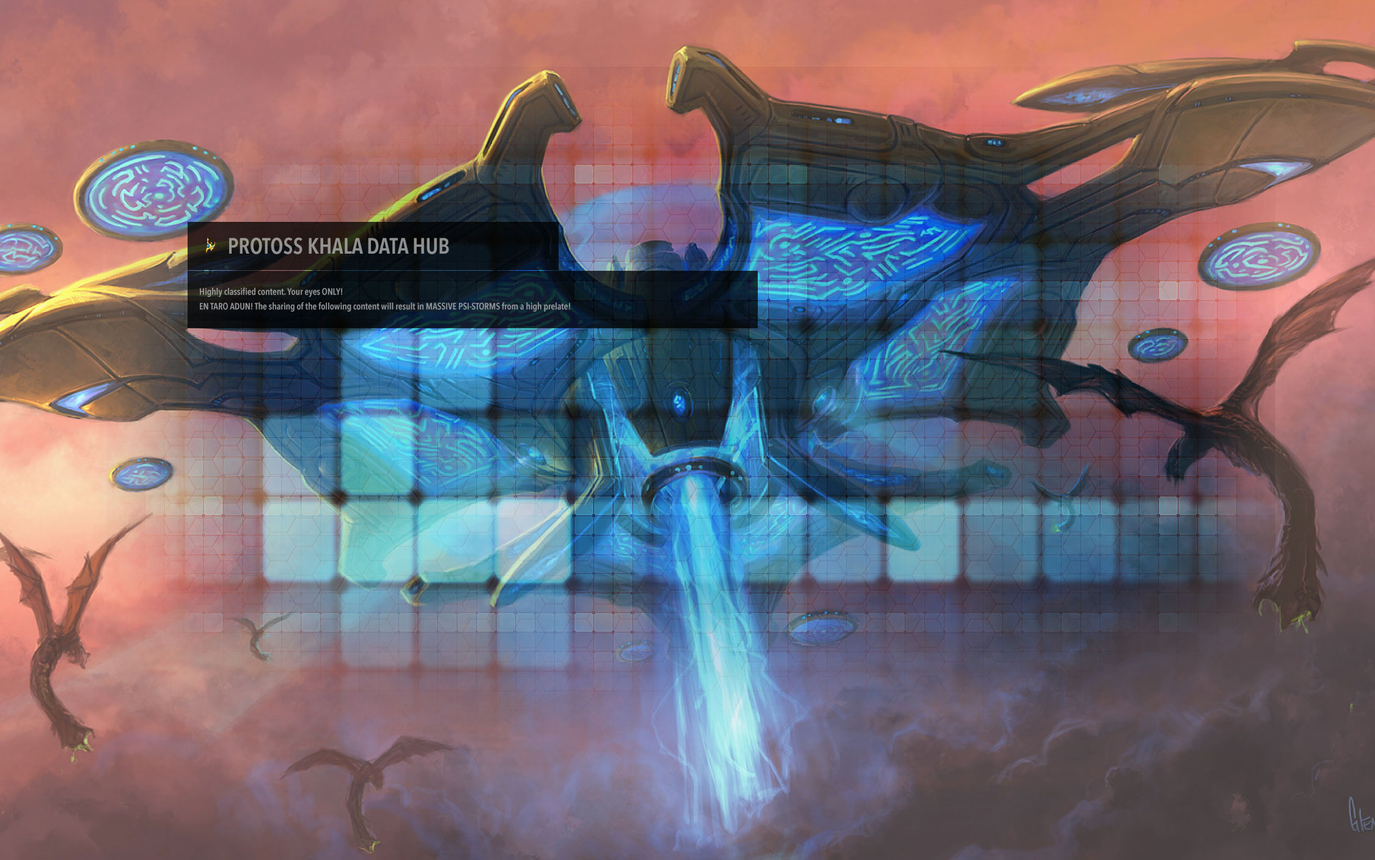
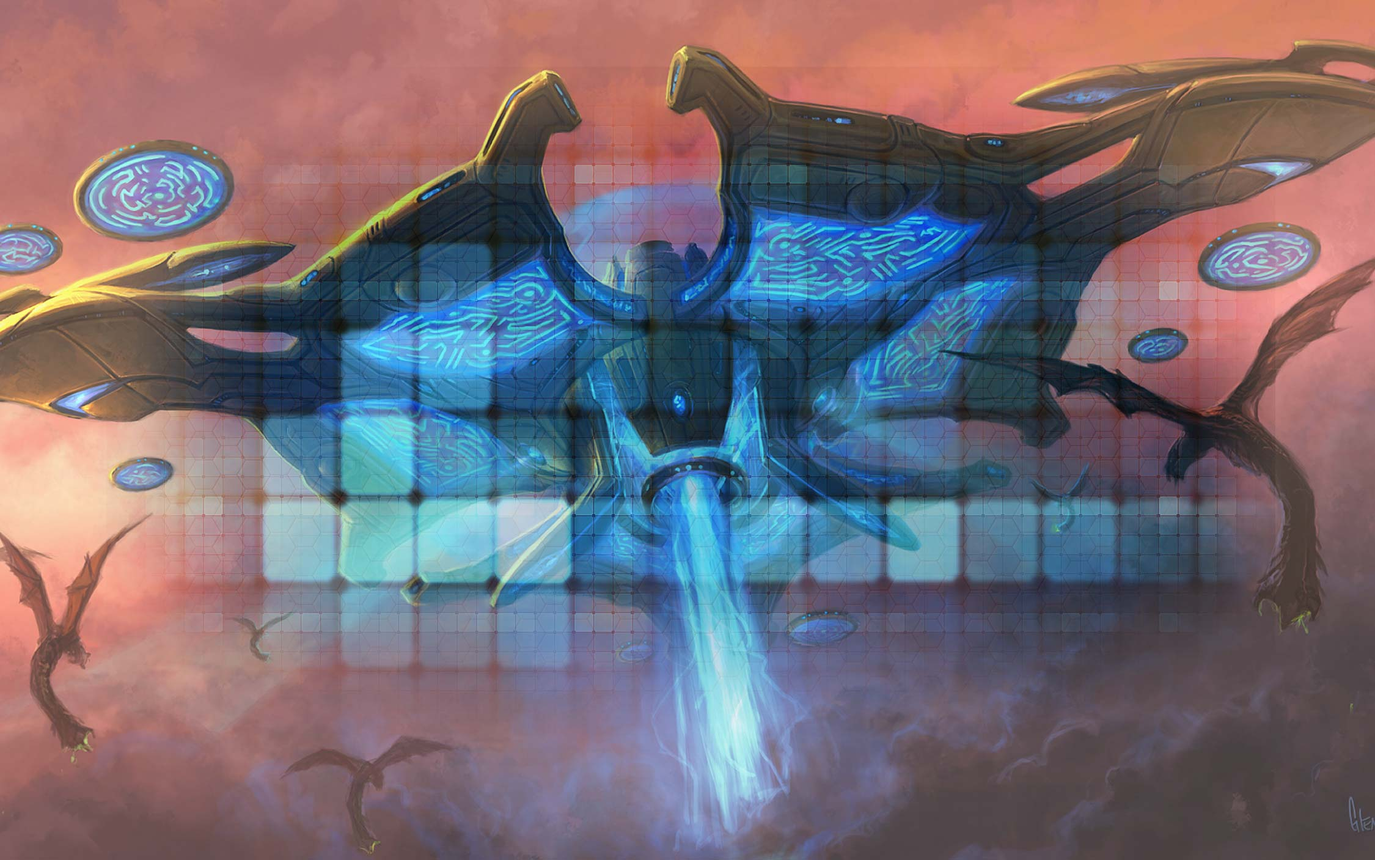
Fixed unit tests for tournament. Refactored method for user retiring from tournament. Changed profile background pictures

Changed region(s): [[0.1244, 0.2445, 0.56, 0.3973]]

diff --git a/app/tests/unit-tests-tournament.js b/app/tests/unit-tests-tournament.js
@@ -4,10 +4,21 @@
 var dbUri = 'mongodb://cristidrincu:crusader2@ds033400.mongolab.com:33400/tournament-unit-tests',
 		should = require('chai').should(),
 		mongoose = require('mongoose'),
+		User = require('../models/user.js'),
 		Tournament = require('../models/tournament.js'),
 		clearDB = require('mocha-mongoose')(dbUri),
 		moment = require('moment')
 		;
+
+var userGabi = new User({
+	'local.nickname': 'gabi',
+	'local.email': 'gabi@e-spres-oh.com',
+	'local.race': 'Terran',
+	'local.league' : 'Diamond',
+	'local.battlenetid':  '7891',
+	'local.role': 'admin',
+	'local.website' : 'http://www.starcraft2-vidcasts.ro'
+});
 
 var tournamentTest = new Tournament({
 	tournamentName: 'Turneu de test 1',
@@ -15,7 +26,7 @@ var tournamentTest = new Tournament({
 	edition: 2,
 	description: 'Lorem ipsum dolor sit amet, consectetur adipiscing elit. Sed efficitur mollis eros, ac facilisis quam. Curabitur iaculis neque quis elit pellentesque, non mollis diam finibus. Class aptent taciti sociosqu ad litora torquent per conubia nostra, per inceptos himenaeos.',
 	openForLeagues: {
-		"leagues": ['Bronze', 'Silver', 'Gold', 'Platinum', 'Diamond', 'Master', 'Grand Master']
+		leagues: ['Bronze', 'Silver', 'Gold', 'Platinum', 'Diamond', 'Master', 'Grand Master']
 	},
 	startDate: null,
 	endDate: null,
@@ -23,7 +34,9 @@ var tournamentTest = new Tournament({
 	prize: false,
 	sponsors: '',
 	ingameChatChannel: 'sc2vid',
-	twitchStreamChannel: 'warbringer81'
+	twitchStreamChannel: 'warbringer81',
+	players: [{
+		type: mongoose.Schema.Types.ObjectId, ref: "User" }]
 });
 
 describe('A tournament', function(){
@@ -35,28 +48,23 @@ describe('A tournament', function(){
 		mongoose.connect(dbUri, done);
 	});
 
+	it('can be saved', function(done){
+		new Tournament({ tournamentName: 'Turneu de test 1', nrOfPlayers: 8, edition: 2, openForLeagues: {leagues: ['Bronze', 'Silver']} }).save(done());
+	});
+
 	it('can have its basic information updated', function(done){
-		tournamentTest.tournamentName = 'Turneu de test modificat la titlu';
-		tournamentTest.nrOfPlayers = '20';
-		tournamentTest.edition = '10';
-		tournamentTest.description = 'Esti pregatit? ...speram ca da, pentru ca va trebui sa iti reprezinti rasa la cel mai inalt nivel. Acest concurs nu este unul clasic - este o lupta pe viata si pe moarte intre cele 3 rase din Starcraft2. Daca joci Terran, atunci intelegi ce inseamna supravietuirea in fata Swarm-ului. Zerg? Nu ai altceva de facut decat sa cresti economic - apoi... GO KILL. Iar daca joci Protoss, vei avea ocazia sa OBSERVI batalia - dupa care, va trebui sa iti murdaresti PSI BLADE-urile, fie pe terran, fie pe zerg!';
-
-
-		tournamentTest.save(function(err, newTournament){
+		new Tournament({ tournamentName: 'Turneu de test modificat la titlu', nrOfPlayers: '20', edition: '10' }).save(function(err, newTournament){
 			if(err) return done(err);
 
 			newTournament.tournamentName.should.equal('Turneu de test modificat la titlu');
 			newTournament.nrOfPlayers.should.equal('20');
 			newTournament.edition.should.equal('10');
-			newTournament.description.should.equal('Esti pregatit? ...speram ca da, pentru ca va trebui sa iti reprezinti rasa la cel mai inalt nivel. Acest concurs nu este unul clasic - este o lupta pe viata si pe moarte intre cele 3 rase din Starcraft2. Daca joci Terran, atunci intelegi ce inseamna supravietuirea in fata Swarm-ului. Zerg? Nu ai altceva de facut decat sa cresti economic - apoi... GO KILL. Iar daca joci Protoss, vei avea ocazia sa OBSERVI batalia - dupa care, va trebui sa iti murdaresti PSI BLADE-urile, fie pe terran, fie pe zerg!');
 			done();
 		});
 	});
 
 	it('can have its number of players updated', function(done){
-		tournamentTest.nrOfPlayers = '10';
-
-		tournamentTest.save(function(err, newTournament){
+		new Tournament({ nrOfPlayers: '10' }).save(function(err, newTournament){
 			if(err) return done(err);
 
 			newTournament.nrOfPlayers.should.equal('10');
@@ -65,19 +73,66 @@ describe('A tournament', function(){
 	});
 
 	it('can have its leagues updated', function(done){
-		tournamentTest.save(function(err){
+		new Tournament({tournamentName: 'Update tournament', openForLeagues: {leagues: ['Bronze', 'Silver']}}).save(function(err, model){
 			if(err) return done(err);
-			tournamentTest.update( {'openForLeagues.leagues': "Bronze" }, { $pull: { 'openForLeagues.leagues': "Bronze" }}, function(err, recordsUpdated){
+
+			Tournament.findOne({tournamentName: 'Update tournament'}, function(err, tournament){
 				if(err) return done(err);
-				recordsUpdated.should.equal(1);
+				tournament.openForLeagues.leagues.splice(0, 1); //remove Bronze from leagues - bad structure: openForLeagues.leagues['Bronze', 'Silver'] - cannot use $pull on such a structure
+				tournament.openForLeagues.leagues.length.should.equal(1);
 				done();
+			})
+		})
+	});
+
+	it("can add a user to tournament", function(done){
+		//add a user to the players array of a tournament
+		new User({'local.nickname': 'userGabi'}).save(function(err){
+			if(err) return done(err);
+
+			User.findOne({'local.nickname': 'userGabi'}, function(err, user){
+				if(err) return done(err);
+
+				new Tournament({tournamentName: 'Turneu push user', players: []}).save(function(err){
+					if(err) return done(err);
+
+					Tournament.findOneAndUpdate({tournamentName: 'Turneu push user'}, {$push: {players: user}}, function(err, tournament){
+						if(err) return done(err);
+						tournament.players.length.should.equal(1);
+						done();
+					});
+				});
 			});
 		});
 	});
 
-//		tournamentTest.save(function(err, updatedTournament){
-//			if(err) return done(err);
-//			updatedTournament.openForLeagues.leagues.length.should.equal(3);
-//			done();
-//		})
+	it("can remove a user from tournament", function(done){
+		new User({'local.nickname': 'userGabi'}).save(function(err){
+			if(err) return done(err);
+
+			User.findOne({'local.nickname': 'userGabi'}, function(err, user){
+				if(err) return done(err);
+
+				new Tournament({tournamentName: 'Turneu remove user', players: []}).save(function(err){
+					if(err) return done(err);
+
+					Tournament.findOneAndUpdate({tournamentName: 'Turneu remove user'}, {$push: {players: user}}, function(err){
+						if(err) return done(err);
+
+						Tournament.findOne({tournamentName: 'Turneu remove user'}).exec(function(err, tournament){
+							if(err) return done(err);
+							tournament.update({$pull: {players: user._id}}).exec(function(err){
+								if(err) return done(err);
+								Tournament.findOne({tournamentName: 'Turneu remove user'}, function(err, tournament){
+									tournament.players.length.should.equal(0);
+									done();
+								});
+							});
+						});
+					});
+				});
+			});
+		});
+	});
+
 });

diff --git a/app/routes/tournaments/tournaments-route.js b/app/routes/tournaments/tournaments-route.js
@@ -252,36 +252,18 @@ app.get('/user-tournaments/:userId', middleware.isLoggedIn, function(req, res){
 });
 
 app.post('/retragere-din-turneu/:_userId/:_tournamentId', middleware.isLoggedIn, function(req, res){
-  Tournament.findById(req.params._tournamentId).exec(function(err, tournament){
-    if(!err){
-      var playerId = tournament.players.indexOf(req.params._userId);
-      if(playerId != -1)
-        tournament.players.splice(playerId, 1);
-      tournament.save(function(err){
-        if(err)
-          req.flash('infoError', 'A aparut o eroare la scoaterea ta din turneu. Mai incearca!');
-        else
-          User.findById(req.params._userId).exec(function(err, user){
-            if(!err){
-              var tournamentId = user.local.tournaments.indexOf(req.params._tournamentId);
-              if(tournamentId != -1){
-                user.local.tournaments.splice(tournamentId, 1);
-                user.save(function(err){
-                  if(err)
-                    res.send(err)
-                  else
-                    req.flash('infoSuccess', 'Te-ai retras cu succes din cadrul turneului!');
-                })
-              }
-            }
-          });
+		Tournament.findByIdAndUpdate({_id: req.params._tournamentId}, {$pull: {players: req.params._userId}}, function(err){
+			if(err) res.send(err);
 
-        res.redirect('/user-tournaments/' + req.params._userId);
-      });
-    }else{
-      res.send(err);
-    }
-  });
+			User.findByIdAndUpdate({_id: req.params._userId}, {$pull: {'local.tournaments': req.params._tournamentId}}, function(err){
+				if(err) {
+					req.flash('infoError', 'A aparut o eroare la scoaterea ta din turneu. Mai incearca!');
+				}else{
+					req.flash('infoSuccess', 'Te-ai retras cu succes din cadrul turneului!');
+					res.redirect('/user-tournaments/' + req.params._userId);
+				}
+			})
+		});
 });
 
 app.post('/declare-winner/:tournamentId/:userId', middleware.isLoggedIn, middleware.requireMultipleUserRoles('Organizator', 'admin'), function(req, res){

diff --git a/app/tests/unit-tests-user.js b/app/tests/unit-tests-user.js
@@ -118,5 +118,4 @@ describe("A user model", function(){
 			});
 		});
 	});
-
 });
